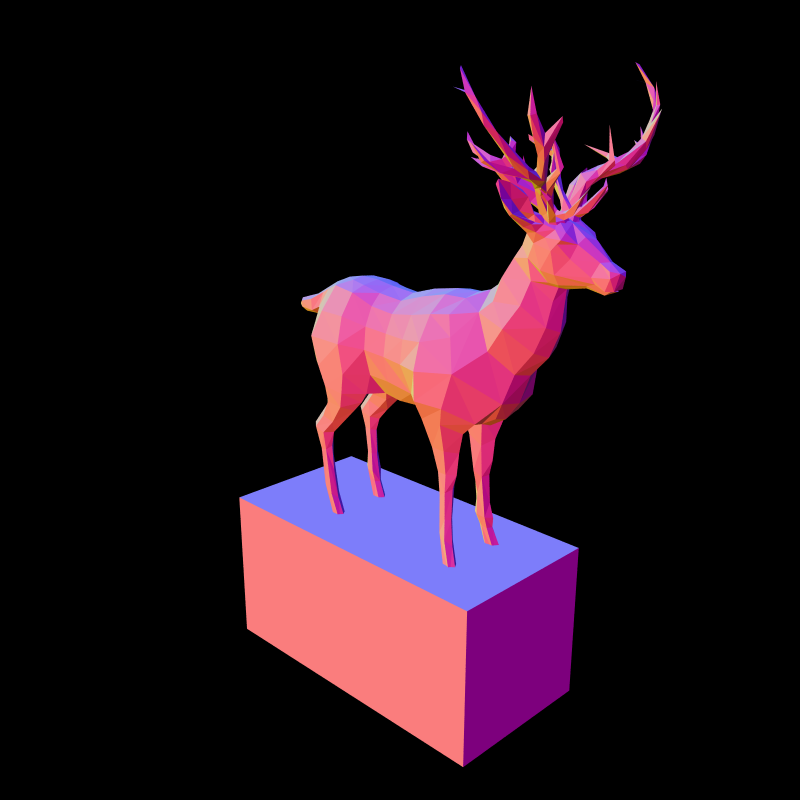
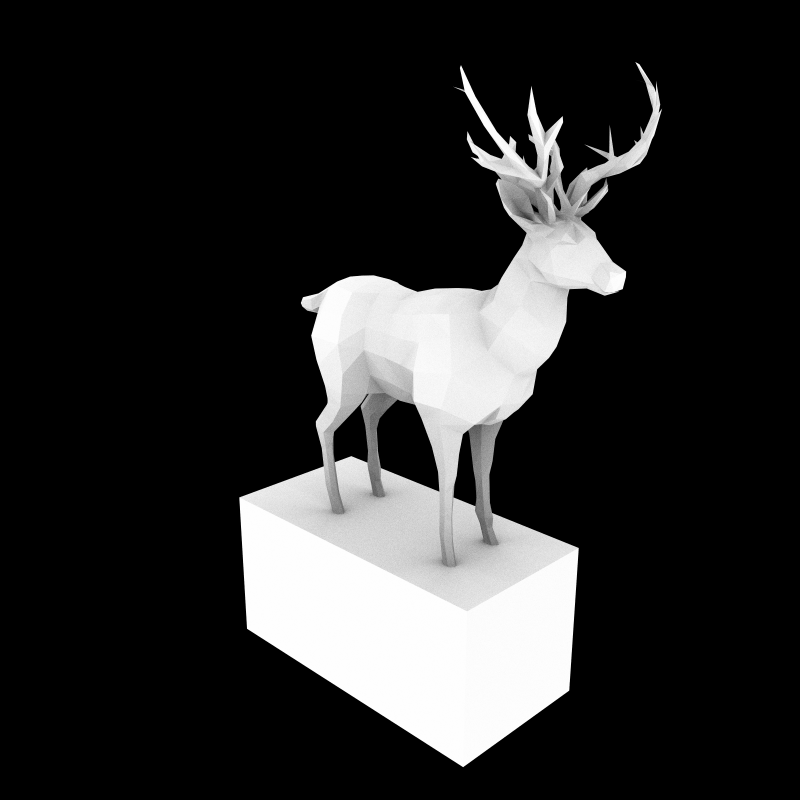
Add ambient occlusion integrator

Changed region(s): [[0.2812, 0.0938, 0.8438, 0.9688], [0.5625, 0.0938, 0.5938, 0.125]]

diff --git a/src/camera.rs b/src/camera.rs
@@ -12,7 +12,7 @@ use std::f32;
 use std::sync::{Arc, Mutex};
 use std::time::Instant;
 
-use crate::normal_integrator::NormalIntegrator;
+use crate::integrators::AOIntegrator;
 use crate::sampler::UniformSampler2;
 
 pub struct CameraBuilder {
@@ -84,27 +84,22 @@ impl Camera {
         collision_group: &CollisionGroups,
         n_samples: u32,
     ) -> Vec<Vec<Point3<f32>>> {
-        let mut rng = Arc::new(Mutex::new(SmallRng::from_seed([0u8; 16])));
         let mut image = RgbImage::new(self.resolution[0] as u32, self.resolution[1] as u32);
-        let integrator = NormalIntegrator;
+        let integrator = AOIntegrator::new(5.0);
         let pixel_sampler = UniformSampler2::new(self.pixel_dimensions);
         let start_time = Instant::now();
         let samples = (0..self.resolution[0])
             .into_par_iter()
             .map(|x| {
+                let mut rng = thread_rng();
                 let mut row: Vec<Point3<f32>> = Vec::new();
                 row.resize(self.resolution[1], Point3::new(0.0, 0.0, 0.0));
                 for y in 0..self.resolution[1] {
                     for s in 0..n_samples {
                         let x_coord = (x as f32 - self.resolution[0] as f32 / 2.0);
                         let y_coord = -(y as f32 - self.resolution[1] as f32 / 2.0);
-                        let pixel_samples = {
-                            let mut rng_borrow = rng.lock().unwrap();
-                            Point2::new(
-                                rng_borrow.gen_range(0.0, 1.0),
-                                rng_borrow.gen_range(0.0, 1.0),
-                            )
-                        };
+                        let pixel_samples =
+                            Point2::new(rng.gen_range(0.0, 1.0), rng.gen_range(0.0, 1.0));
                         let pixel_position = pixel_sampler.sample(&pixel_samples);
                         let ray_target = Point3::new(
                             x_coord * self.pixel_dimensions[0] + pixel_position[0],
@@ -114,8 +109,8 @@ impl Camera {
                         let ray_direction = ray_target.coords.normalize();
                         let initial_ray = Ray::new(Point3::new(0.0, 0.0, 0.0), ray_direction)
                             .transform_by(&self.position);
-                        let sample_value = integrator.launch_ray(&initial_ray, world);
-                        row[y] = (row[y] * s as f32+ sample_value.coords) / (s + 1) as f32;
+                        let sample_value = integrator.launch_ray(&initial_ray, world, &mut rng);
+                        row[y] = (row[y] * s as f32 + sample_value.coords) / (s + 1) as f32;
                     }
                 }
                 row
@@ -124,11 +119,8 @@ impl Camera {
         for x in 0..self.resolution[0] {
             for y in 0..self.resolution[1] {
                 let value = samples[x][y];
-                image.get_pixel_mut(x as u32, y as u32).data = [
-                    value[0] as u8,
-                    value[1] as u8,
-                    value[2] as u8,
-                ];
+                image.get_pixel_mut(x as u32, y as u32).data =
+                    [value[0] as u8, value[1] as u8, value[2] as u8];
             }
         }
         image.save("./output.png").unwrap();

diff --git a/src/integrators/ao_integrator.rs b/src/integrators/ao_integrator.rs
@@ -1,0 +1,69 @@
+use nalgebra::{Point2, Point3, Vector3};
+use ncollide3d::{
+    query::{Ray, RayIntersection},
+    shape::FeatureId,
+    world::{CollisionGroups, CollisionWorld},
+};
+use rand::Rng;
+use std::f32;
+
+use crate::sampler::HemisphereSampler;
+
+pub struct AOIntegrator {
+    range: f32,
+}
+
+impl AOIntegrator {
+    pub fn new(range: f32) -> Self {
+        AOIntegrator { range }
+    }
+
+    pub fn launch_ray<R: Rng>(
+        &self,
+        ray: &Ray<f32>,
+        world: &CollisionWorld<f32, ()>,
+        rng: &mut R,
+    ) -> Point3<f32> {
+        let mut min_toi = f32::MAX;
+        let mut sample_value = Point3::new(0.0, 0.0, 0.0);
+        let mut min_intersection =
+            RayIntersection::new(0.0, Vector3::new(0.0, 0.0, 0.0), FeatureId::Unknown);
+        let mut found_intersection = false;
+        for intersection in world.interferences_with_ray(&ray, &CollisionGroups::new()) {
+            found_intersection = true;
+            if intersection.1.toi < min_toi {
+                let normal = intersection.1.normal;
+                sample_value = Point3::new(
+                    (125.0 + (normal[0] * 125.0)),
+                    (125.0 + (normal[1] * 125.0)),
+                    (125.0 + (normal[2] * 125.0)),
+                );
+                min_toi = intersection.1.toi;
+                min_intersection = intersection.1;
+            }
+        }
+        if !found_intersection {
+            return Point3::new(0.0,0.0,0.0);
+        }
+
+        let sampler = HemisphereSampler;
+        let ray_samples = Point2::new(rng.gen_range(0.0, 1.0), rng.gen_range(0.0, 1.0));
+        let new_ray_origin = ray.point_at(min_intersection.toi - 0.01);
+        let new_ray_direction = sampler.sample(&ray_samples, min_intersection.normal);
+//        println!("{:?}, {:?}", min_intersection.normal, new_ray_direction);
+        let new_ray = Ray::new(new_ray_origin, new_ray_direction);
+
+        let mut min_toi = f32::MAX;
+        for intersection in world.interferences_with_ray(&new_ray, &CollisionGroups::new()) {
+            if intersection.1.toi < min_toi {
+                min_toi = intersection.1.toi;
+            }
+        }
+        if min_toi < self.range {
+            Point3::new(0.0,0.0,0.0)
+        }
+        else {
+            Point3::new(254.0,254.0,254.0)
+        }
+    }
+}

diff --git a/src/sampler.rs b/src/sampler.rs
@@ -20,16 +20,27 @@ pub struct HemisphereSampler;
 
 impl HemisphereSampler {
     pub fn sample(&self, input: &Point2<f32>, normal: Vector3<f32>) -> Vector3<f32> {
-        let theta_n = normal[2].asin();
-        let phi_n = normal[1].atan2(normal[0]);
-
         let phi = input[0] * 2.0 * PI;
-        let theta = (1.0 - input[1]).acos();
+        let theta = input[1].acos();
 
-        let cos_theta = (theta + theta_n).cos();
-        let sin_theta = (theta + theta_n).sin();
-        let cos_phi = (phi + phi_n).cos();
-        let sin_phi = (phi + phi_n).sin();
-        Vector3::new(cos_theta * cos_phi, cos_theta * sin_phi, sin_theta)
+        let b3 = normal;
+        let cross_dir = if b3[0] < 0.5 {
+            Vector3::new(1.0,0.0,0.0)
+        }
+        else {
+            Vector3::new(0.0,1.0,0.0)
+        };
+        let b1 = b3.cross(&cross_dir).normalize();
+        let b2 = b3.cross(&b1);
+//        println!("{}, {}, {}, {}", theta_n, phi_n, theta, phi);
+
+        let cos_theta = theta.cos();
+        let sin_theta = theta.sin();
+        let cos_phi = phi.cos();
+        let sin_phi = phi.sin();
+        let x = sin_theta * cos_phi;
+        let y = sin_theta * sin_phi;
+        let z = cos_theta;
+        x * b1 + y * b2 + z * b3
     }
 }

diff --git a/src/main.rs b/src/main.rs
@@ -1,5 +1,5 @@
 mod camera;
-mod normal_integrator;
+mod integrators;
 mod sampler;
 
 use std::path::Path;
@@ -39,14 +39,14 @@ fn main() {
 
     let ground = Cuboid::new(Vector3::new(0.5, 1.0, 0.5));
 
-    let mut world = CollisionWorld::new(0.01f32);
+    let mut world = CollisionWorld::new(0.0001f32);
     let cube_transform = Isometry::translation(0.0, 0.0, -1.0);
     let collision_group = CollisionGroups::new();
     world.add(
         cube_transform,
         ShapeHandle::new(tri_mesh),
         collision_group,
-        GeometricQueryType::Contacts(0.01, 0.01),
+        GeometricQueryType::Contacts(0.0001, 0.0001),
         (),
     );
     let pedestal_transform = Isometry::translation(0.0, 0.0, -1.8);
@@ -54,7 +54,7 @@ fn main() {
         pedestal_transform,
         ShapeHandle::new(ground),
         collision_group,
-        GeometricQueryType::Contacts(0.01, 0.01),
+        GeometricQueryType::Contacts(0.0001, 0.0001),
         (),
     );
     world.perform_broad_phase();
@@ -69,5 +69,5 @@ fn main() {
         .screen_dimensions(Vector2::new(0.8, 0.8))
         .resolution(Vector2::new(800, 800))
         .build();
-    camera.compute_samples(&world, &collision_group, 200);
+    camera.compute_samples(&world, &collision_group, 1024);
 }

diff --git a/src/integrators/normal_integrator.rs b/src/integrators/normal_integrator.rs
@@ -3,12 +3,18 @@ use ncollide3d::{
     query::Ray,
     world::{CollisionGroups, CollisionWorld},
 };
+use rand::Rng;
 use std::f32;
 
 pub struct NormalIntegrator;
 
 impl NormalIntegrator {
-    pub fn launch_ray(&self, ray: &Ray<f32>, world: &CollisionWorld<f32, ()>) -> Point3<f32> {
+    pub fn launch_ray<R: Rng>(
+        &self,
+        ray: &Ray<f32>,
+        world: &CollisionWorld<f32, ()>,
+        rng: &mut R,
+    ) -> Point3<f32> {
         let mut min_toi = f32::MAX;
         let mut sample_value = Point3::new(0.0, 0.0, 0.0);
         for intersection in world.interferences_with_ray(&ray, &CollisionGroups::new()) {

diff --git a/src/integrators/mod.rs b/src/integrators/mod.rs
@@ -1,0 +1,5 @@
+mod ao_integrator;
+mod normal_integrator;
+
+pub use ao_integrator::AOIntegrator;
+pub use normal_integrator::NormalIntegrator;
